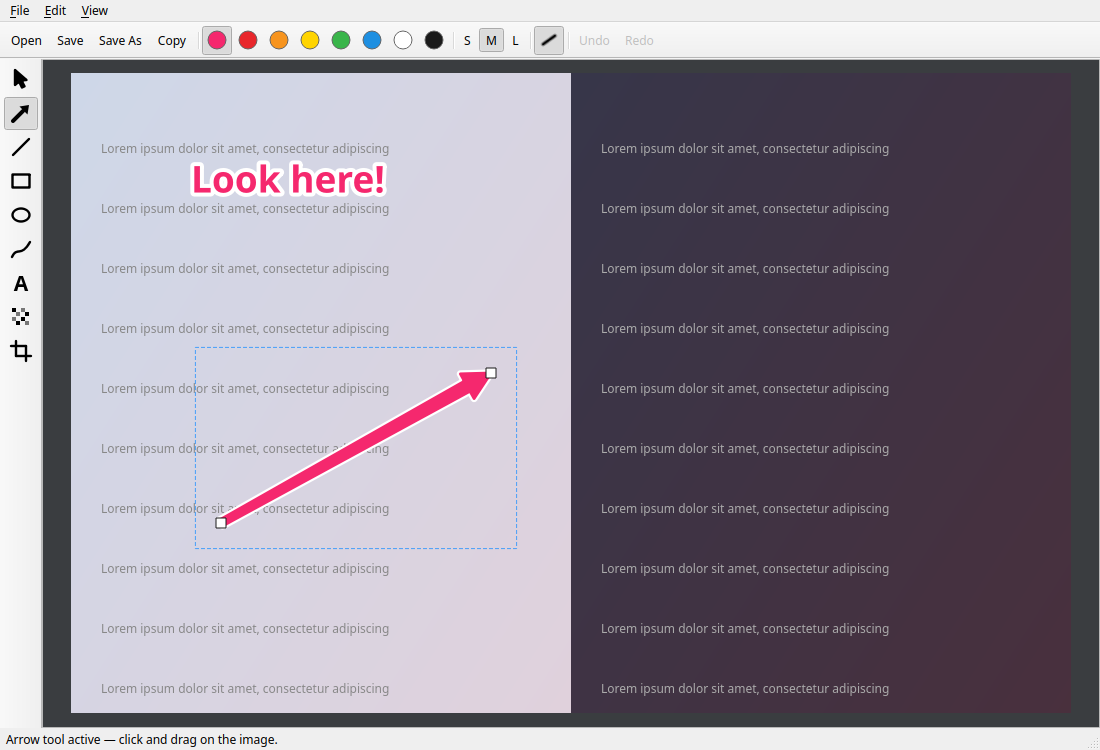
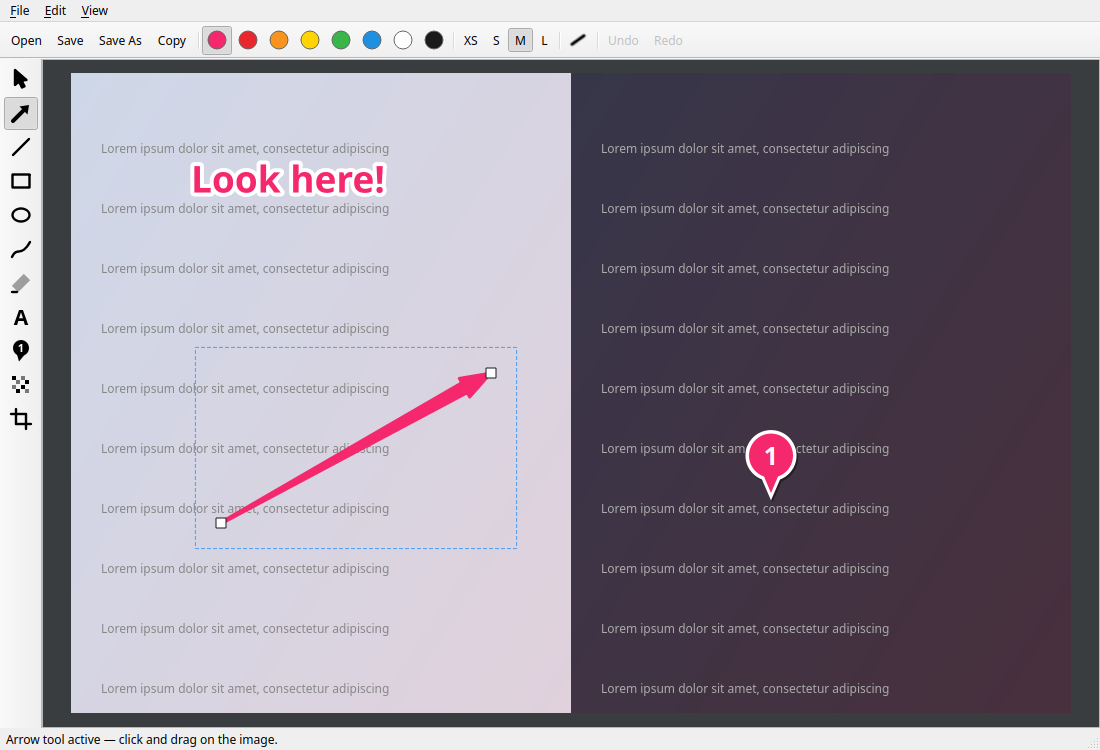
docs: refresh README for 0.6.0 (#17)
- Arrow feature bullet matched reality: flat Skitch look by default,
  outline optional (was described as always outlined)
- All three screenshots regenerated with the current look: tapered flat
  arrows, crisp map pins, highlighter stroke, XS/S/M/L toolbar

diff --git a/README.md b/README.md
@@ -41,8 +41,9 @@ No accounts. No cloud. No layers. No dialogs you didn't ask for.
 
 ## Features
 
-- 🎯 **Skitch-style arrows** — thick tapered shaft, big filled head, white
-  outline + drop shadow, readable on any background
+- 🎯 **Skitch-style arrows** — pointed tail widening into a compact filled
+  head, flat strong color just like the original (optional white outline +
+  shadow for busy backgrounds)
 - 📍 **Numbered markers** — Skitch-style pins with an auto-incrementing
   number in the head; drag to aim the pointer tail, double-click to relabel
 - 🅰 **Bold outlined text** — click, type, Enter. Done.
